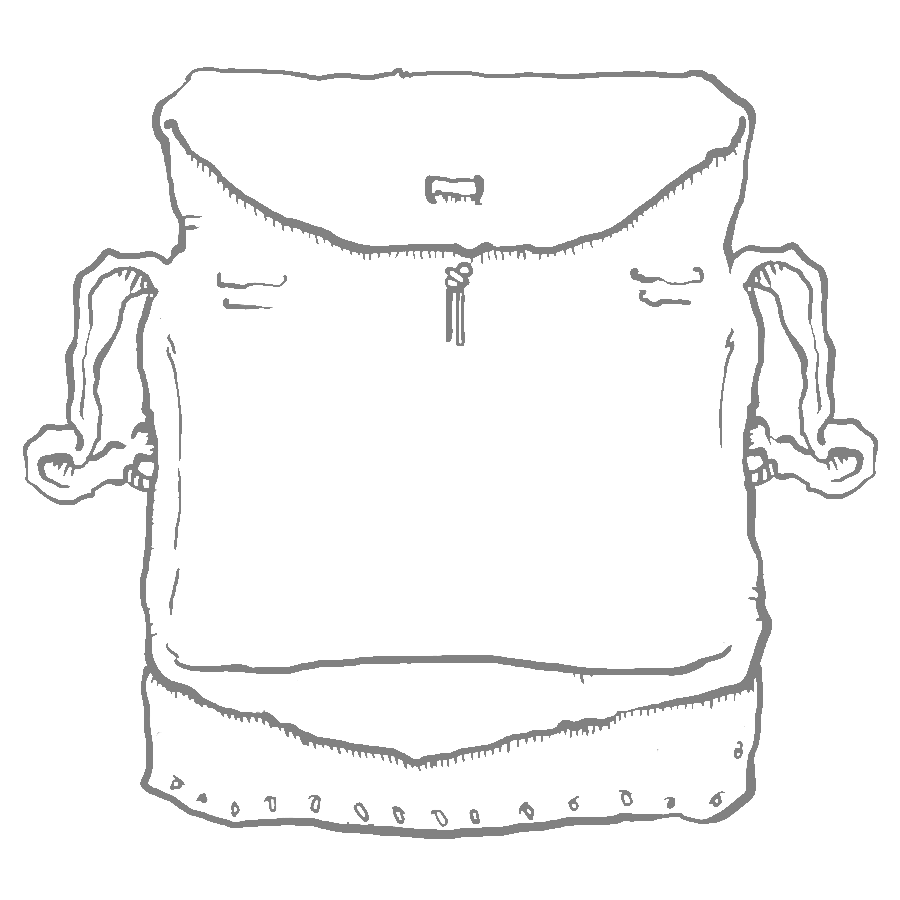
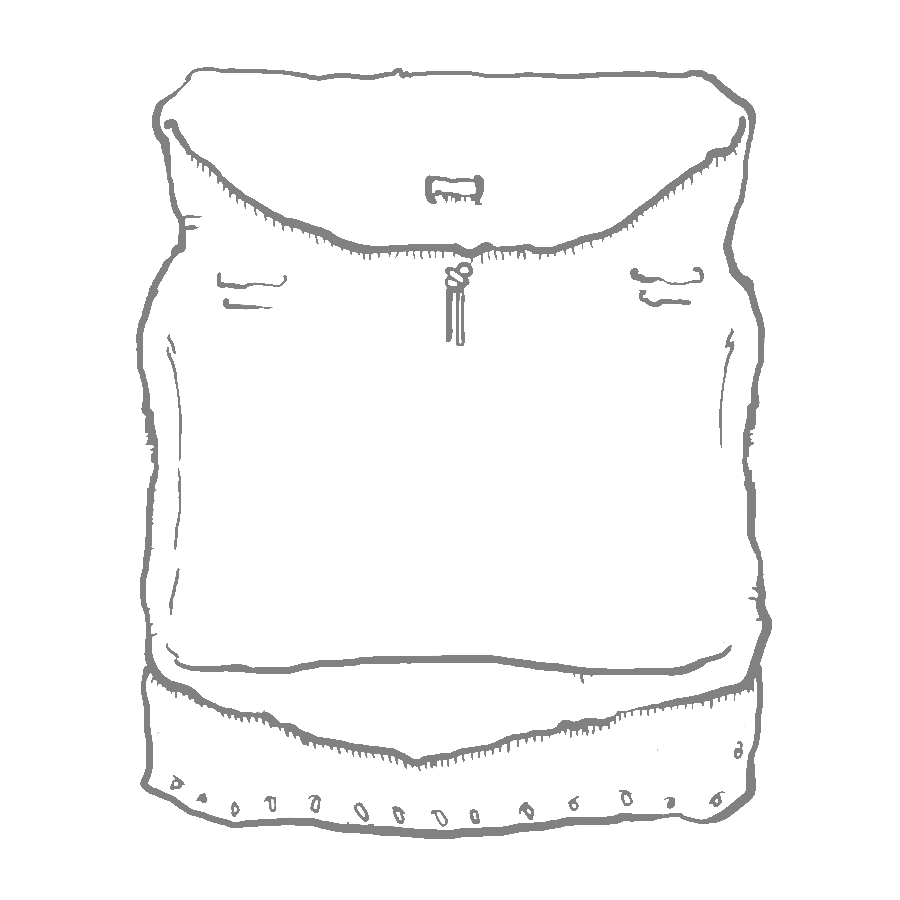
edited the backpack image, finished fixing inventory dialog

Changed region(s): [[0.8089, 0.2489, 0.9956, 0.56], [0.0, 0.28, 0.1867, 0.56]]

diff --git a/src/components/inventory-dialog/styles.scss b/src/components/inventory-dialog/styles.scss
@@ -7,10 +7,11 @@
 }
 
 .inventory-backpack {
-  width: 350px;
-  height: 350px;
+  height: 280px;
 
-  margin-top: 35px;
+  margin-top: 36px;
 
-  background-size: contain;
+  background-size: cover;
+  background-position: center;
+  background-repeat: no-repeat;
 }

diff --git a/src/components/backpack-items/styles.scss b/src/components/backpack-items/styles.scss
@@ -1,5 +1,5 @@
 .backpack-items-container {
   width: fit-content;
 
-  margin: 150px auto;
+  margin: 110px auto;
 }
